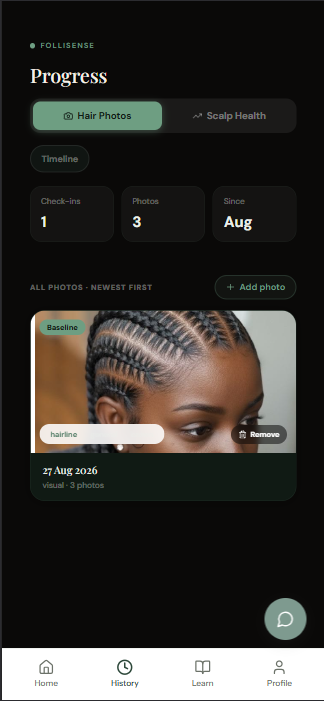
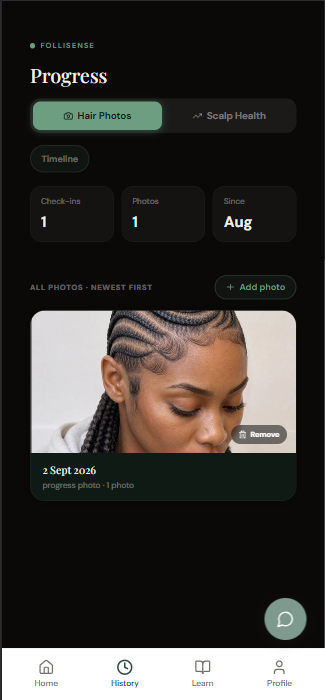
Rework matched comparison layout, update photos screenshot

diff --git a/index.html b/index.html
@@ -286,13 +286,13 @@
   .cat-ico svg { width: 19px; height: 19px; stroke: var(--accent); fill: none; stroke-width: 1.7; stroke-linecap: round; stroke-linejoin: round; }
 
   /* ── Matched comparison ── */
-  .cmp { display: grid; grid-template-columns: repeat(2, minmax(0,1fr)); gap: 16px; max-width: 760px; }
+  .cmp { display: grid; grid-template-columns: repeat(2, minmax(0,1fr)); gap: 12px; max-width: 440px; }
   .cmp figure { margin: 0; }
   .cmp .photo { max-width: none; aspect-ratio: 4 / 5; }
   .cmp figcaption { display: flex; align-items: baseline; justify-content: space-between; gap: 10px; margin-top: 12px; }
   .cmp .d { font-size: 14px; font-weight: 600; }
   .cmp .w { font-size: 13px; color: var(--faint); }
-  .cmp-meta { max-width: 760px; margin-top: 22px; padding-top: 20px; border-top: 1px solid var(--hair); display: flex; flex-wrap: wrap; gap: 9px; align-items: center; }
+    .cmp-meta { margin-top: 26px; padding-top: 20px; border-top: 1px solid var(--hair); display: flex; flex-wrap: wrap; gap: 9px; align-items: center; }
   .cmp-meta .lbl { font-size: 13px; color: var(--faint); margin-right: 4px; }
 
   /* ── Green sections ── */
@@ -751,42 +751,46 @@
      are honestly comparable, not that one of them is better.             -->
 <div class="wrap">
   <section class="sect" id="compare" style="scroll-margin-top:88px">
-    <div class="reveal" style="max-width:640px;margin-bottom:40px">
-      <p class="eyebrow">Matched comparison</p>
-      <h2 style="margin-bottom:20px">Two photos only sit side by side if they are actually comparable</h2>
-      <p class="copy">
-        Most hair photos taken weeks apart are useless next to each other. Different light, different point in
-        the wash week, hair wet one time and dry the next. FolliSense records those conditions at the shutter
-        and only offers a pair when they match. If nothing matches yet, it says so rather than showing you a
-        comparison that means nothing.
-      </p>
-    </div>
+    <div class="split">
 
-    <div class="cmp reveal">
-      <figure>
-        <div class="photo"><img src="/compare-a.jpg" alt="Crown photographed at the start of a style" loading="lazy"></div>
-        <figcaption><span class="d">12 July</span><span class="w">Day 1</span></figcaption>
-      </figure>
-      <figure>
-        <div class="photo"><img src="/compare-b.jpg" alt="The same crown photographed six weeks later" loading="lazy"></div>
-        <figcaption><span class="d">23 August</span><span class="w">Week 6</span></figcaption>
-      </figure>
-    </div>
+      <div class="reveal cmp">
+        <figure>
+          <div class="photo"><img src="/compare-a.jpg" alt="Crown photographed at the start of a style" loading="lazy"></div>
+          <figcaption><span class="d">12 July</span><span class="w">Day 1</span></figcaption>
+        </figure>
+        <figure>
+          <div class="photo"><img src="/compare-b.jpg" alt="The same crown photographed six weeks later" loading="lazy"></div>
+          <figcaption><span class="d">23 August</span><span class="w">Week 6</span></figcaption>
+        </figure>
+      </div>
 
-    <div class="cmp-meta reveal">
-      <span class="lbl">Matched on</span>
-      <span class="chip">Crown</span>
-      <span class="chip">Dry</span>
-      <span class="chip">Unstretched</span>
-      <span class="chip">No product</span>
+      <div class="reveal">
+        <p class="eyebrow">Matched comparison</p>
+        <h2 style="margin-bottom:20px">Two photos only sit side by side if they are actually comparable</h2>
+        <p class="copy">
+          Most hair photos taken weeks apart are useless next to each other. Different light, different point in
+          the wash week, hair wet one time and dry the next. FolliSense records those conditions at the shutter
+          and only offers a pair when they match. If nothing matches yet, it says so rather than showing you a
+          comparison that means nothing.
+        </p>
+
+        <div class="cmp-meta">
+          <span class="lbl">Matched on</span>
+          <span class="chip">Crown</span>
+          <span class="chip">Dry</span>
+          <span class="chip">Unstretched</span>
+          <span class="chip">No product</span>
+        </div>
+
+        <p class="small" style="margin-top:16px;font-size:13px">
+          A pair like this is a record of what changed, not evidence that anything worked. FolliSense does not
+          claim a result and does not sell one.
+        </p>
+      </div>
+
     </div>
-    <p class="small reveal" style="margin-top:16px;max-width:640px;font-size:13px">
-      A pair like this is a record of what changed, not evidence that anything worked. FolliSense does not
-      claim a result and does not sell one.
-    </p>
   </section>
 </div>
-
 <!-- ══ For men ═══════════════════════════════════════════════════════════
      PHOTO SLOT 8 — men.jpg, wide crop roughly 3:2.                       -->
 <div style="background:var(--paper)">
